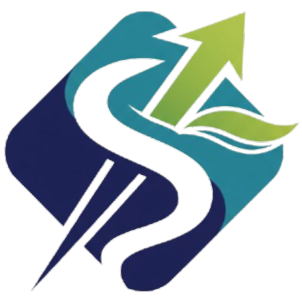
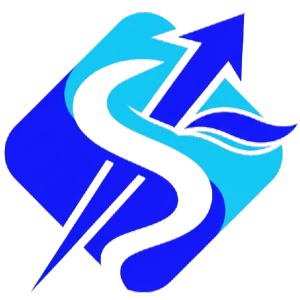
update tema

diff --git a/resources/views/welcome.blade.php b/resources/views/welcome.blade.php
@@ -13,6 +13,20 @@
     <script src="https://cdn.jsdelivr.net/npm/select2@4.1.0-rc.0/dist/js/select2.min.js"></script>
     <script src="https://cdn.jsdelivr.net/npm/fullcalendar@6.1.18/index.global.min.js"></script>
     {{-- <link rel="stylesheet" href="https://cdn.jsdelivr.net/npm/flatpickr/dist/flatpickr.min.css"> --}}
+    <style>
+        .nav-link.active {
+            position: relative;
+        }
+        .nav-link.active::after {
+            content: "";
+            position: absolute;
+            bottom: 0;
+            left: 0;
+            width: 100%;
+            height: 2px;
+            background-color: rgb(28, 14, 223);
+        }
+    </style>
 </head>
 
 <body class="bg-body-secondary">
@@ -21,7 +35,7 @@
             <nav class="navbar navbar-expand-md navbar-light bg-white border-bottom shadow-sm py-3">
                 <div class="container">
                     <img src="{{ asset('sipasti.png') }}" alt="SIPASTI Logo" class="navbar-brand-logo me-2" width="40" height="40">
-                    <a class="navbar-brand fw-bold text-success" href="{{ url('/') }}">SIPASTI</a>
+                    <a class="navbar-brand fw-bold text-primary" href="{{ url('/') }}">SIPASTI</a>
 
                     <button class="navbar-toggler" type="button" data-bs-toggle="collapse" data-bs-target="#mainNavbar" aria-controls="mainNavbar" aria-expanded="false" aria-label="Toggle navigation">
                         <span class="navbar-toggler-icon"></span>
@@ -29,20 +43,32 @@
 
                     <div class="collapse navbar-collapse" id="mainNavbar">
                         <ul class="navbar-nav ms-auto mb-2 mb-md-0 align-items-md-center">
-                            <li class="nav-item"><a class="nav-link" href="{{ url('/') }}">Home</a></li>
-                            <li class="nav-item"><a class="nav-link" href="{{ url('/members/data') }}">Members</a></li>
-                            <li class="nav-item"><a class="nav-link" href="{{ url('/assets/data') }}">Assets</a></li>
-                            <li class="nav-item"><a class="nav-link" href="{{ url('/sectors/data') }}">Bidang</a></li>
-                            <li class="nav-item"><a class="nav-link" href="{{ url('/rent/report') }}">Laporan</a></li>
+                            <li class="nav-item">
+                                <a class="nav-link {{ Request::is('/') ? 'active' : '' }}" href="{{ url('/') }}">Home</a>
+                            </li>
+                            <li class="nav-item">
+                                <a class="nav-link {{ Request::is('members/data*') ? 'active' : '' }}" href="{{ url('/members/data') }}">Pemohon</a>
+                            </li>
+                            <li class="nav-item">
+                                <a class="nav-link {{ Request::is('assets/data*') ? 'active' : '' }}" href="{{ url('/assets/data') }}">Assets</a>
+                            </li>
+                            <li class="nav-item">
+                                <a class="nav-link {{ Request::is('sectors/data*') ? 'active' : '' }}" href="{{ url('/sectors/data') }}">Bidang</a>
+                            </li>
+                            <li class="nav-item">
+                                <a class="nav-link {{ Request::is('rent/report') ? 'active' : '' }}" href="{{ url('/rent/report') }}">Laporan</a>
+                            </li>
                             @auth
                                 @if(auth()->user()->role === 'super_admin')
-                                    <li class="nav-item"><a class="nav-link" href="{{ url('/users/role') }}">Role</a></li>
+                                    <li class="nav-item">
+                                        <a class="nav-link {{ Request::is('users/role') ? 'active' : '' }}" href="{{ url('/users/role') }}">Role</a>
+                                    </li>
                                 @endif
                             @endauth
                             {{-- <li class="nav-item"><a class="nav-link" href="#">Users</a></li> --}}
                             <li class="nav-item ms-md-3">
                                 <a href="{{ route('logout') }}"
-                                   class="btn btn-danger btn-sm px-3 d-md-inline-flex align-items-center"
+                                   class="btn btn-primary btn-sm px-3 d-md-inline-flex align-items-center"
                                    onclick="event.preventDefault(); document.getElementById('logout-form').submit();">
                                     <i class="bi bi-box-arrow-right me-1"></i> Logout
                                 </a>

diff --git a/resources/views/rent/data.blade.php b/resources/views/rent/data.blade.php
@@ -3,7 +3,7 @@
 @section('content')
 <div class="mb-4 bg-body-tertiary rounded-3">
     <div class="container-fluid p-3">
-        <h1 class="display-6 fw-bold text-success">Penggunaan Aset</h1>
+        <h1 class="display-6 fw-bold text-primary">Penggunaan Aset</h1>
         <p class="fs-4 mb-0">Data penggunaan aset DISPARPORA Kotabaru</p>
     </div>
 </div>
@@ -24,11 +24,11 @@
         @if($canClick)
             <a href="{{ route('rent.show', $rental->id) }}" class="text-decoration-none text-reset">
         @endif
-            <div class="card h-100 border-success rounded-3 shadow-sm">
+            <div class="card h-100 border-info rounded-3 shadow-sm">
                 <div class="card-body">
                     <div class="d-flex align-items-start">
                         <div class="flex-grow-1">
-                            <h5 class="card-title text-success">{{ $rental->member->name }}</h5>
+                            <h5 class="card-title text-info">{{ $rental->member->name }}</h5>
                             <h6 class="card-subtitle mb-2 text-muted">{{ $rental->institution->name }}</h6>
                             <p class="mb-1"><strong>WhatsApp:</strong> {{ $rental->member->phone }}</p>
                             <p class="mb-1"><strong>Aset:</strong> {{ $rental->asset->name }}</p>
@@ -46,7 +46,7 @@
                             </p>
                         </div>
                         <img src="{{ $rental->photo ? asset('storage/' . $rental->photo) : 'https://via.placeholder.com/100x150?text=No+Image' }}"
-                            class="rounded ms-3" alt="{{ $rental->member->name }}" width="100" height="150">
+                            class="rounded border border-dark-subtle ms-3" alt="{{ $rental->member->name }}" width="100" height="150">
                     </div>
                 </div>
             </div>
@@ -86,7 +86,7 @@
 })();
 </script>
 <a href="{{ url('/rent/form') }}"
-    class="btn btn-success rounded-circle position-fixed bottom-0 end-0 m-4 shadow fab-add d-flex align-items-center justify-content-center"
+    class="btn btn-primary rounded-circle position-fixed bottom-0 end-0 m-4 shadow fab-add d-flex align-items-center justify-content-center"
     style="width:60px;height:60px;z-index:1050;">
     <i class="bi bi-plus-lg fs-3"></i>
     <span class="visually-hidden">Tambah</span>

diff --git a/resources/views/rent/detail.blade.php b/resources/views/rent/detail.blade.php
@@ -16,7 +16,7 @@
 </style>
 <div class="mb-4 bg-body-tertiary rounded-3">
     <div class="container-fluid p-3">
-        <h1 class="display-6 fw-bold text-success">Penggunaan Aset</h1>
+        <h1 class="display-6 fw-bold text-primary">Penggunaan Aset</h1>
         <p class="fs-4 mb-0">Detail penggunaan aset DISPARPORA Kotabaru</p>
     </div>
 </div>
@@ -80,14 +80,14 @@
                     
                     @if($rental->status == 'process' && in_array(auth()->user()->role, ['admin']) && $rental->start_at == null)
                         <div class="d-flex justify-content-end mt-3">
-                            <button type="submit" class="btn btn-success col-4">Update</button>
+                            <button type="submit" class="btn btn-primary col-4">Update</button>
                         </div>
                     @endif
                 </form>
                 @if($rental->status == 'waiting' && in_array(auth()->user()->role, ['super_admin']))
                     <div class="d-flex justify-content-end mt-3">
                         {{-- <button class="btn btn-danger flex-fill">Tolak</button> --}}
-                        <a href="{{ route('rent.approve', $rental->id) }}" class="btn btn-success col-4">Setujui</a>
+                        <a href="{{ route('rent.approve', $rental->id) }}" class="btn btn-info col-4">Setujui</a>
                     </div>
                 @endif
                 @if($rental->status == 'finish' && in_array(auth()->user()->role, ['admin']))

diff --git a/resources/views/assets/data.blade.php b/resources/views/assets/data.blade.php
@@ -16,8 +16,8 @@
 </style>
 <div class="mb-4 bg-body-tertiary rounded-3">
     <div class="container-fluid p-3">
-        <h1 class="display-6 fw-bold text-success">Data Aset</h1>
-        <p class="fs-4 mb-0">Berikut adalah daftar aset yang dapat dipinjam.</p>
+        <h1 class="display-6 fw-bold text-primary">Data Aset</h1>
+        <p class="fs-4 mb-0">Berikut adalah daftar aset DISPARPORA Kotabaru</p>
     </div>
 </div>
 
@@ -26,11 +26,11 @@
     <div class="col-12 col-md-6 col-lg-4">
         <a href="#" data-bs-toggle="modal" data-bs-target="#assetModal{{ $index }}"
             class="d-block text-decoration-none text-reset h-100">
-            <div class="card h-100 border-success shadow-sm">
+            <div class="card h-100 border-info shadow-sm">
                 <img src="{{ $asset->image }}" class="card-img-top" style="object-fit:cover; height:200px;"
                     alt="{{ $asset->title }}">
                 <div class="card-body">
-                    <h5 class="card-title text-success">{{ $asset->name }}</h5>
+                    <h5 class="card-title text-info">{{ $asset->name }}</h5>
                     <p class="card-text text-muted">{{ $asset->description }}</p>
                 </div>
             </div>

diff --git a/resources/views/report/data.blade.php b/resources/views/report/data.blade.php
@@ -47,7 +47,7 @@
 </div>
 <div class="mb-4 bg-body-tertiary rounded-3">
     <div class="container-fluid p-3">
-        <h1 class="display-6 fw-bold text-success">Laporan</h1>
+        <h1 class="display-6 fw-bold text-primary">Laporan</h1>
         <p class="fs-4 mb-0">Data laporan penggunaan aset DISPARPORA Kotabaru.</p>
     </div>
 </div>
@@ -63,7 +63,7 @@
             value="{{ request('end_date') }}">
     </div>
     <div class="col-auto">
-        <button type="submit" class="btn btn-success">Filter</button>
+        <button type="submit" class="btn btn-info">Filter</button>
     </div>
     <div class="col-auto">
         <button type="button" class="btn btn-secondary" onclick="window.print()">Print</button>
@@ -78,7 +78,7 @@
                         <th scope="col">#</th>
                         <th scope="col">Instansi</th>
                         <th scope="col">Aset</th>
-                        <th scope="col">Pengguna</th>
+                        <th scope="col">Pemohon</th>
                         <th scope="col">Foto</th>
                         <th scope="col">Tanggal</th>
                         <th scope="col">Status</th>

diff --git a/resources/views/sectors/data.blade.php b/resources/views/sectors/data.blade.php
@@ -4,7 +4,7 @@
 <link rel="stylesheet" href="https://cdn.jsdelivr.net/npm/bootstrap-icons@1.10.5/font/bootstrap-icons.css">
     <div class="mb-4 bg-body-tertiary rounded-3">
         <div class="container-fluid p-3">
-            <h1 class="display-6 fw-bold text-success">Data Bidang</h1>
+            <h1 class="display-6 fw-bold text-primary">Data Bidang</h1>
             <p class="fs-4 mb-0">Berikut adalah daftar bidang beserta jabatannya:</p>
         </div>
     </div>
@@ -24,9 +24,9 @@
     <div class="row row-cols-1 row-cols-md-2 row-cols-lg-3 g-4">
         @foreach($fields as $field)
             <div class="col">
-                <div class="card h-100 shadow-sm border-success">
+                <div class="card h-100 shadow-sm border-info">
                     <div class="card-body text-center">
-                        <i class="{{ $field['icon'] }} fs-1 text-success mb-3"></i>
+                        <i class="{{ $field['icon'] }} fs-1 text-info mb-3"></i>
                         <h5 class="card-title fw-semibold">{{ $field['name'] }}</h5>
                     </div>
                 </div>

diff --git a/resources/views/members/data.blade.php b/resources/views/members/data.blade.php
@@ -3,14 +3,14 @@
 @section('content')
 <div class="mb-4 bg-body-tertiary rounded-3">
     <div class="container-fluid p-3">
-        <h1 class="display-6 fw-bold text-success">Data Pemohon</h1>
+        <h1 class="display-6 fw-bold text-primary">Data Pemohon</h1>
         <p class="fs-4 mb-0">Data pemohon penggunaan aset DISPARPORA Kotabaru</p>
     </div>
 </div>
 <div class="row g-4">
     @foreach($members as $member)
         <div class="col-6 col-sm-4 col-md-3 col-lg-2">
-            <div class="card h-100 border-success shadow-sm">
+            <div class="card h-100 border-info shadow-sm">
                 <img src="{{ $member->profile_photo_url ?? 'https://i.pravatar.cc/150?u='.$member->name }}" 
                     class="card-img-top" 
                     alt="{{ $member->name }}">

diff --git a/resources/views/users/role.blade.php b/resources/views/users/role.blade.php
@@ -3,7 +3,7 @@
 @section('content')
 <div class="mb-4 bg-body-tertiary rounded-3">
     <div class="container-fluid p-3">
-        <h1 class="display-6 fw-bold text-success">Akses Pengguna</h1>
+        <h1 class="display-6 fw-bold text-primary">Akses Pengguna</h1>
         <p class="fs-4 mb-0">Menejemen hak akses pengguna terhadap aset.</p>
     </div>
 </div>
@@ -11,7 +11,7 @@
 @foreach($users as $user)
     {{-- <div class="mb-3"> --}}
         {{-- <h5 class="fw-bold text-primary">{{ $user->name }} ({{ ucfirst($user->role) }})</h5> --}}
-        <h5 class="fw-bold text-primary">{{ $user->name }}</h5>
+        <h5 class="fw-bold text-info">{{ $user->name }}</h5>
     {{-- </div> --}}
     <ul class="list-group mb-4">
         @foreach($user->assetUsers as $assetUser)
